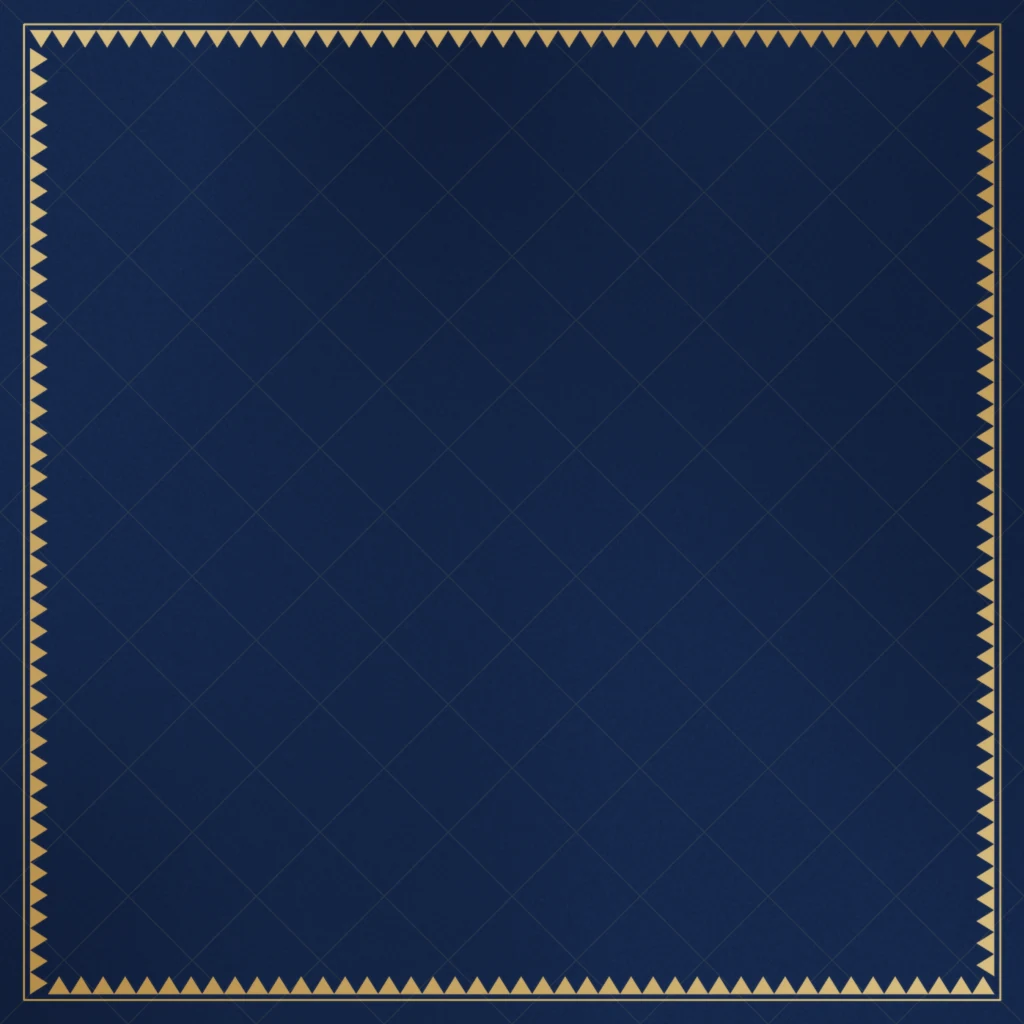
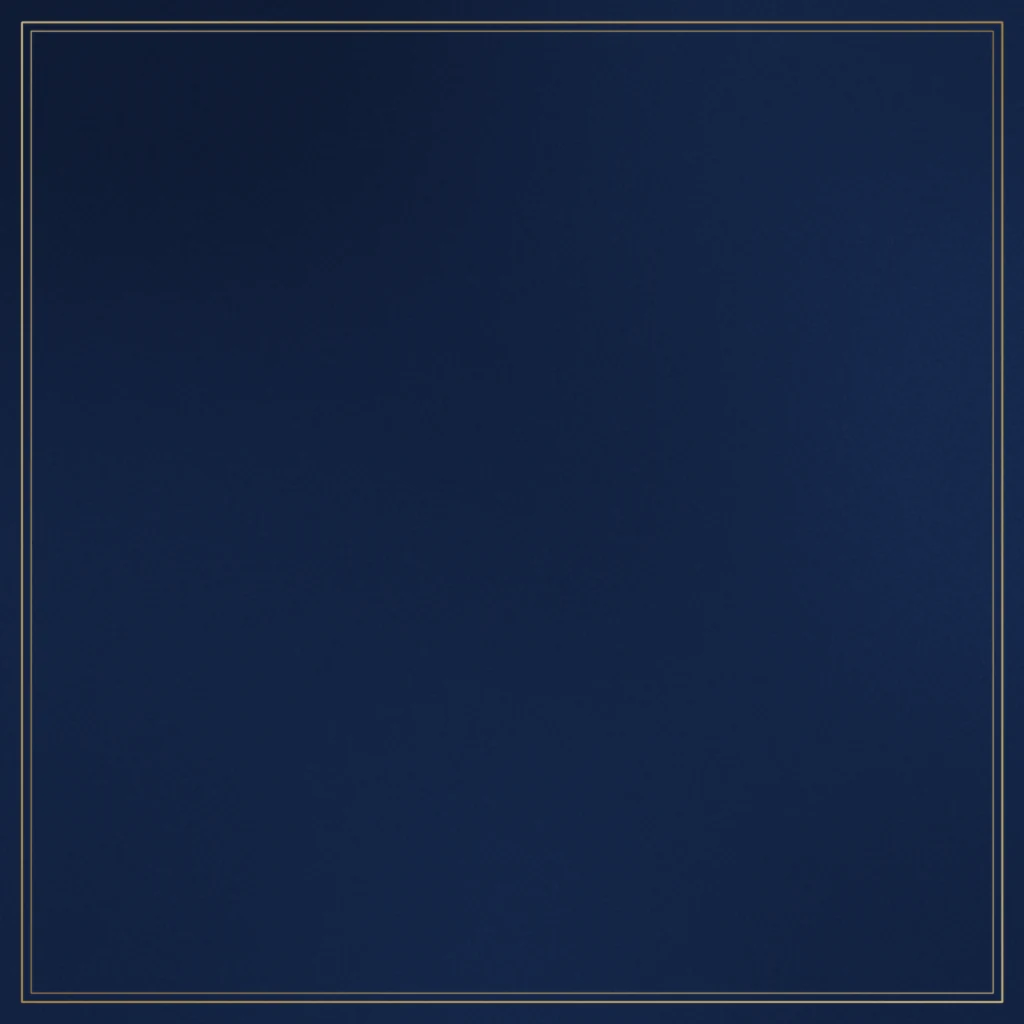
Kōnane: simpler midnight board (no shark-tooth band; a fine gold double line)
Claude-Session: https://claude.ai/code/session_019p8B6Vvh3jun26Ko2A6wjZ

Changed region(s): [[0.0, 0.0, 1.0, 1.0]]

diff --git a/konane/index.html b/konane/index.html
@@ -831,10 +831,10 @@ html[data-bd=kona]{--bdImg:url(img/bd-kona.webp);--frameBg:url(img/fr-kona.webp)
 html[data-bd=stone]{--bdImg:url(img/bd-stone.webp);--frameBg:url(img/fr-stone.webp) 0 0/240px 240px,#3f3c38;--frm:#4a4640;--puka1:rgba(16,14,12,.72);--puka2:rgba(40,36,32,.5);--puka3:rgba(60,56,50,.25);--pukaRim:rgba(200,190,172,.22);--pukaHl:rgba(220,212,196,.22);--num:rgba(230,222,206,.55)}
 /* koa: an oiled koa papamū with drilled holes (as the boards made today) */
 html[data-bd=koa]{--bdImg:url(img/bd-koa.webp);--frameBg:url(img/fr-koa.webp) 0 0/300px 300px,#4e2410;--frm:#5a2a12;--puka1:rgba(14,6,2,.9);--puka2:rgba(30,14,6,.82);--puka3:rgba(60,30,12,.5);--pukaRim:rgba(255,214,160,.32);--pukaHl:rgba(255,226,180,.3);--num:rgba(255,230,196,.6)}
-/* modern: warm grey matte · sunset gradient · midnight navy with a gold niho manō band */
+/* modern: warm grey matte · sunset gradient · midnight navy with a fine gold line */
 html[data-bd=mono]{--bdImg:url(img/bd-mono.webp);--frameBg:url(img/fr-mono.webp) 0 0/240px 240px,#2a2a2d;--frm:#3a3a3e;--puka1:rgba(0,0,0,.1);--puka2:rgba(0,0,0,.05);--pukaRim:rgba(0,0,0,.2);--pukaHl:rgba(255,255,255,.75);--num:rgba(40,40,42,.5)}
 html[data-bd=sunset]{--bdImg:url(img/bd-sunset.webp);--frameBg:url(img/fr-sunset.webp) 0 0/240px 240px,#2b1f5c;--frm:#3a2a72;--puka1:rgba(60,20,80,.2);--puka2:rgba(60,20,80,.1);--pukaRim:rgba(255,255,255,.5);--pukaHl:rgba(255,255,255,.35);--num:rgba(255,255,255,.75)}
-html[data-bd=midnight]{--bdImg:url(img/bd-midnight.webp);--frameBg:url(img/fr-midnight.webp) 0 0/240px 240px,#0a1428;--frm:#c9a05a;--puka1:rgba(0,0,0,.36);--puka2:rgba(0,0,0,.2);--pukaRim:rgba(214,178,106,.62);--pukaHl:rgba(255,236,200,.18);--num:rgba(214,178,106,.75)}
+html[data-bd=midnight]{--bdImg:url(img/bd-midnight.webp?v=2);--frameBg:url(img/fr-midnight.webp?v=2) 0 0/240px 240px,#0a1428;--frm:#c9a05a;--puka1:rgba(0,0,0,.36);--puka2:rgba(0,0,0,.2);--pukaRim:rgba(214,178,106,.62);--pukaHl:rgba(255,236,200,.18);--num:rgba(214,178,106,.75)}
 html[data-bd=quilt] .reserve .rsv-plate{background:rgba(255,252,244,.86);color:#24504c}
 html[data-bd=quilt] .reserve .rsv-plate .rsv-l b, html[data-bd=quilt] .reserve .rsv-plate .rsv-w:not(.hot) b{color:#0d3f3c}
 html[data-bd=quilt] .reserve .rsv-plate .rsv-w:not(.hot){color:#24504c}

diff --git a/konane/tools/gen_art_more.py b/konane/tools/gen_art_more.py
@@ -308,15 +308,12 @@ def niho(d, P, ss, x0, y0, x1, y1, size, up=True):
 def midnight_board():
     g = noise((NB, NB), .6, 1)
     col = mix(C('#0f1c36'), C('#16294d'), .5 + .25 * fbm((NB, NB), [(180, 1)])) * (1 + .03 * g[..., None])
-    # faint gold lattice of diamonds, a niho manō band round the edge
+    # simple: only a fine double gold line round the field
     cv = Canvas(NB, 3)
-    lat = cv.mask(lambda d, P, ss: [line(d, P, ss, [(k * 128 - NB, 0), (k * 128, NB)], 1.2) for k in range(0, 17)] + [line(d, P, ss, [(k * 128, 0), (k * 128 - NB, NB)], 1.2) for k in range(0, 17)], .4)
-    col = paint(col, C('#d6b26a'), lat * .1)
-    o = 30; s_ = 22
-    band = cv.mask(lambda d, P, ss: (niho(d, P, ss, o, o, NB - o, o, s_), niho(d, P, ss, NB - o, o, NB - o, NB - o, s_), niho(d, P, ss, NB - o, NB - o, o, NB - o, s_), niho(d, P, ss, o, NB - o, o, o, s_),
-                                     [line(d, P, ss, pts, 2) for pts in ([(o - 6, o - 6), (NB - o + 6, o - 6), (NB - o + 6, NB - o + 6), (o - 6, NB - o + 6), (o - 6, o - 6)],)]), .5)
+    o = 22
+    band = cv.mask(lambda d, P, ss: [line(d, P, ss, [(a, a), (NB - a, a), (NB - a, NB - a), (a, NB - a), (a, a)], w) for a, w in ((o, 2.2), (o + 9, 1))], .5)
     gold = vgrad([(0, '#f1d48e'), (.5, '#c99a4c'), (1, '#f1d48e')], (X01 + Y01) / 2)
-    col = paint(col, gold, band * .9)
+    col = paint(col, gold, band * .85)
     save_rgb(col, 'bd-midnight.webp')
 
 
@@ -366,14 +363,11 @@ def frames_more():
     save_rgb(shade(gaussian_filter(h, 1.0, mode='wrap'), alb, gloss=10, spec=.05, amb=.6, wrap=True), 'fr-stone.webp')
     # koa: the board's edge, darker oiled koa
     save_rgb(koa_slab(NF, 43, '#9a5a2c', '#6e3818', '#341608', '#1c0a03', .7), 'fr-koa.webp')
-    # modern: charcoal felt-matte / indigo grain / navy with the gold niho band
+    # modern: charcoal felt-matte / indigo grain / plain navy
     g = noise(S, .6, 1, True)
     save_rgb(mix(C('#2a2a2d'), C('#323236'), .5 + .3 * fbm(S, [(80, 1)], True)) * (1 + .02 * g[..., None]), 'fr-mono.webp')
     save_rgb(mix(C('#2b1f5c'), C('#3a2a72'), .5 + .3 * fbm(S, [(80, 1)], True)) * (1 + .03 * g[..., None]), 'fr-sunset.webp')
     col = mix(C('#0a1428'), C('#0f1d38'), .5 + .3 * fbm(S, [(80, 1)], True)) * (1 + .03 * g[..., None])
-    cvn = Canvas(NF, 3, wrap=True)
-    bnd = cvn.mask(lambda d, P, ss: [niho(d, P, ss, 0, y, NF, y, 32, up) for y, up in ((128, True), (384, False))], .5)
-    col = paint(col, C('#c9a05a'), bnd * .5)
     save_rgb(col, 'fr-midnight.webp')
 
 
